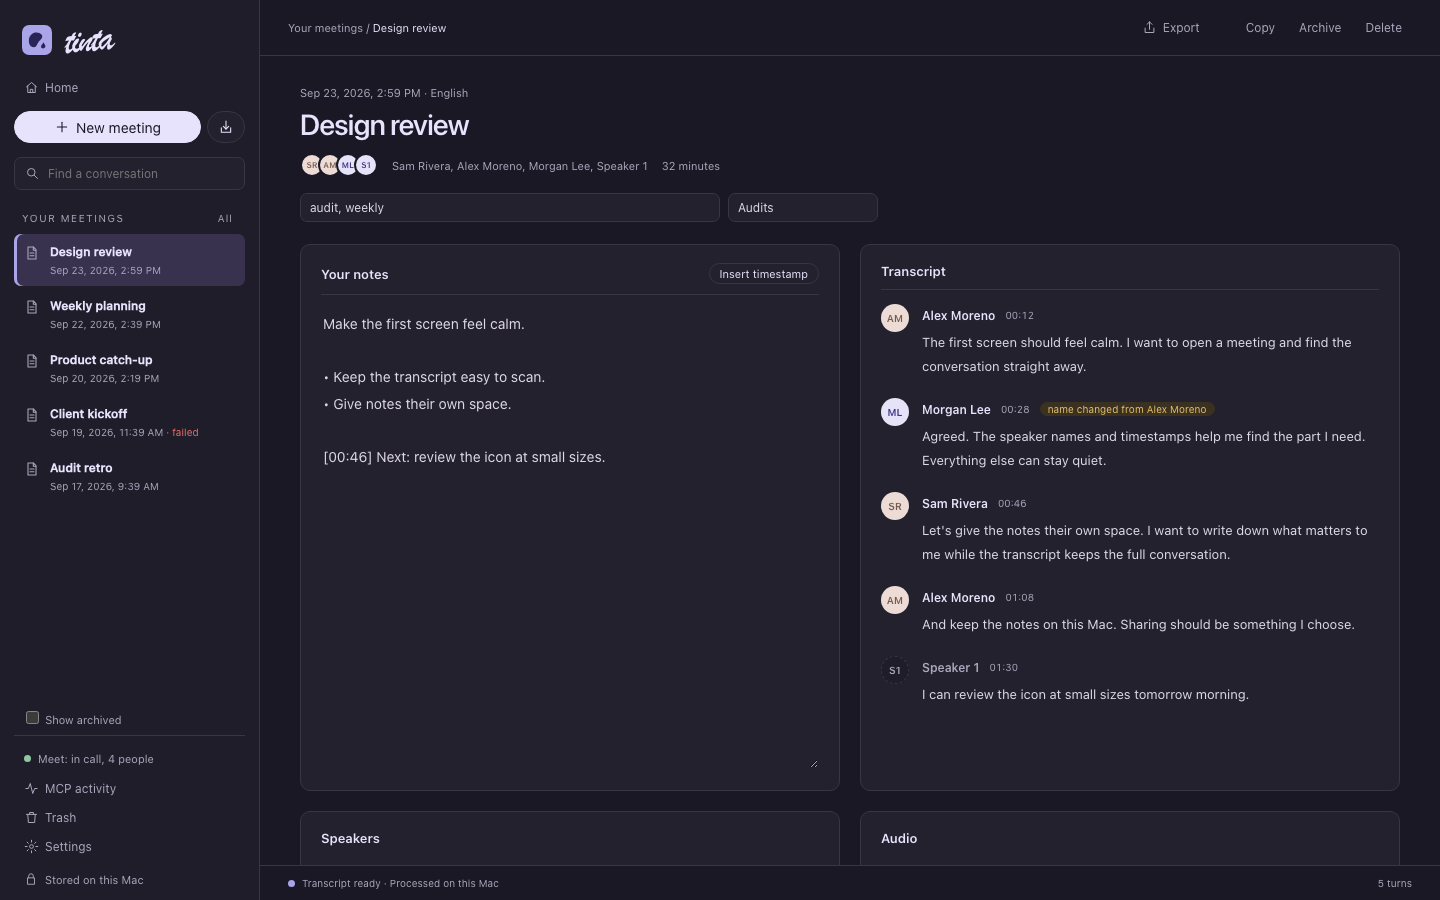
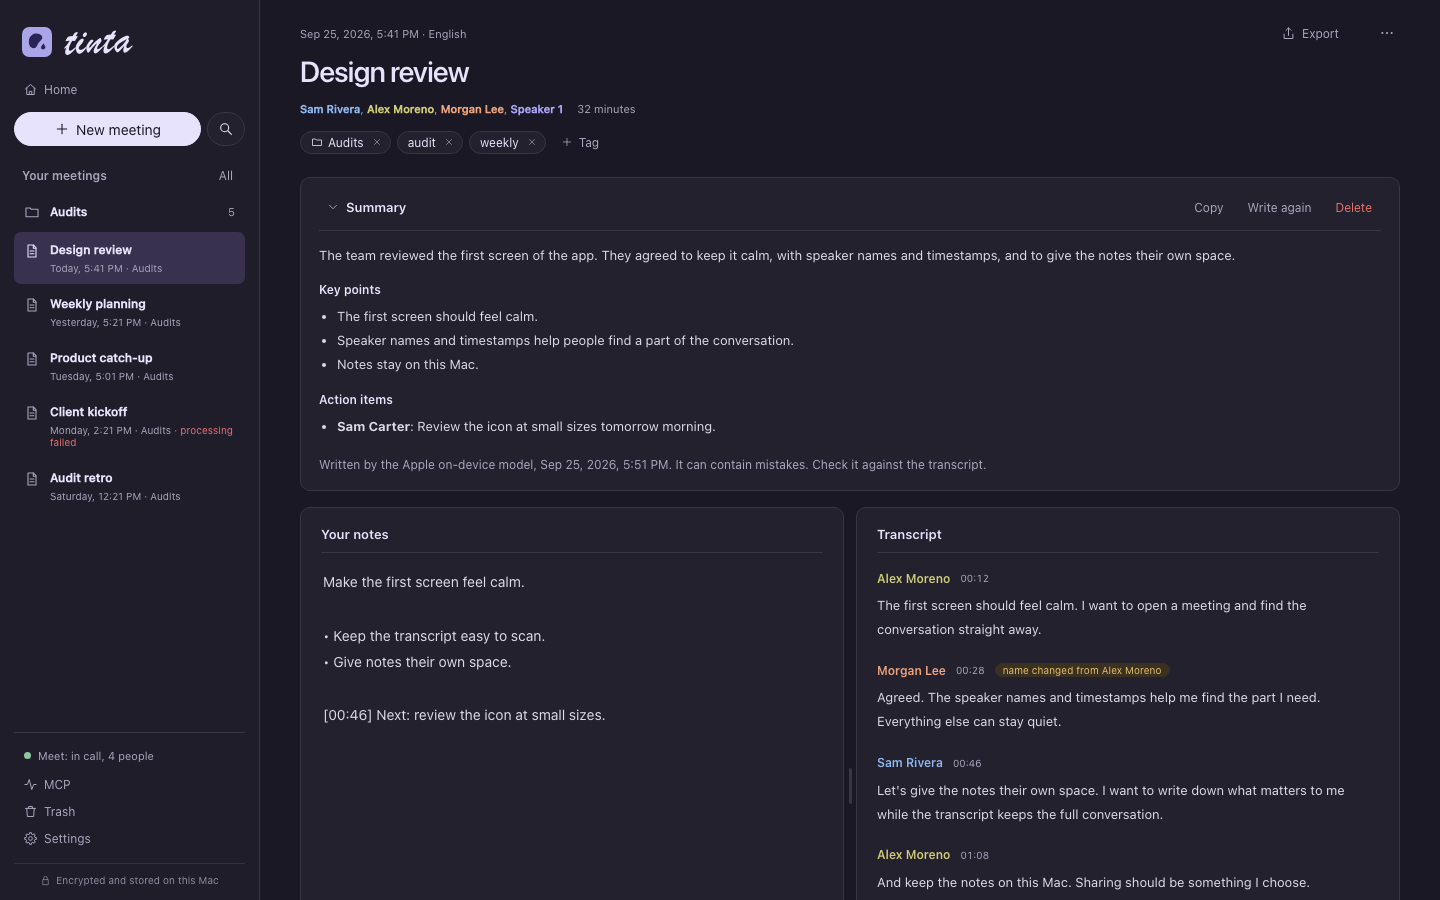
Update the README screenshots for the current app
- Take new screenshots of Home, a meeting, a recording, the dark appearance, and the extension popup.
- Describe the new screenshots in the captions.
- Serve the interface preview over HTTP, because Chrome does not load it from disk.
- Send sample audio levels in the #recording preview.

diff --git a/app/src/mock.ts b/app/src/mock.ts
@@ -117,6 +117,15 @@ const boot: Bootstrap = {
     : [],
 };
 
+/** Sends sample level meters during a recording. Other events do not occur in the preview. */
+export function mockOn(event: string, handler: (payload: unknown) => void): () => void {
+  if (event !== "engine" || hash() !== "recording") return () => undefined;
+  const send = () => handler({ event: "levels", mic: 0.03 + Math.random() * 0.04, remote: 0.1 + Math.random() * 0.06, remote_capturing: true, mic_muted: false });
+  send();
+  const timer = setInterval(send, 400);
+  return () => clearInterval(timer);
+}
+
 export async function mockInvoke<T>(command: string): Promise<T> {
   const results: Record<string, unknown> = {
     bootstrap: boot,

diff --git a/app/src/api.ts b/app/src/api.ts
@@ -291,7 +291,7 @@ export function installRunning(): boolean {
 }
 
 export function on<T>(event: string, handler: (payload: T) => void): Promise<UnlistenFn> {
-  if (MOCK) return Promise.resolve(() => undefined);
+  if (MOCK) return import("./mock").then(({ mockOn }) => mockOn(event, handler as (payload: unknown) => void));
   return listen<T>(event, (e) => handler(e.payload));
 }
 

diff --git a/README.md b/README.md
@@ -11,7 +11,7 @@ Write your notes, get a transcript with speaker names, and keep everything on yo
 > Tinta is in active development. Expect bugs and changes. All feedback is welcome. To report a bug or suggest an improvement, [open an issue](https://github.com/pepebndc/tinta/issues).
 
 <p align="center">
-  <img src="docs/images/meeting.png" alt="A meeting in Tinta: notes on the left, a transcript with speaker names on the right">
+  <img src="docs/images/meeting.png" alt="A meeting in Tinta: a summary at the top, notes on the left, and a transcript with speaker names on the right">
 </p>
 
 ## What Tinta does
@@ -48,11 +48,11 @@ Tinta does not tell other people in a call that you record. Always tell them.
 
 | Home | Recording |
 |---|---|
-| ![Home with a detected Google Meet call](docs/images/home.png) | ![A recording with level meters and a live draft](docs/images/recording.png) |
+| ![Home with a Google Meet call, the recent meetings, and the next meetings from the calendar](docs/images/home.png) | ![A recording with level meters, notes, and a live draft of the transcript](docs/images/recording.png) |
 
 | Dark appearance | Chrome extension |
 |---|---|
-| ![The meeting view in the dark appearance](docs/images/meeting-dark.png) | <img src="docs/images/extension-popup.png" width="320" alt="The extension popup with the participants of a call"> |
+| ![A meeting with its summary in the dark appearance](docs/images/meeting-dark.png) | <img src="docs/images/extension-popup.png" width="320" alt="The extension popup during a recording, with the participants of the call and the active speaker"> |
 
 ## Status
 
@@ -181,7 +181,7 @@ This repository does not include the models. Tinta downloads them at pinned revi
 | Unit tests | `cargo test --workspace` |
 | Extension tests | `node --test extension/test/speaking.test.mjs` |
 | End-to-end self-test | `TINTA_DATA_DIR=$(mktemp -d) cargo run -p tinta-selftest` |
-| Interface preview with sample data | `cd app && pnpm preview:mock`, then open `app/dist-mock/index.html` |
+| Interface preview with sample data | `cd app && pnpm preview:mock && python3 -m http.server -d dist-mock 8765`, then open `http://localhost:8765/index.html` |
 | App bundle | `./scripts/build.sh` |
 
 The self-test builds a synthetic meeting with the macOS voices. It runs processing, name matching, export, the MCP tools, undo, the trash, and audio retention. It uses its own data folder and does not touch your library. Install the speech models before you run it.
